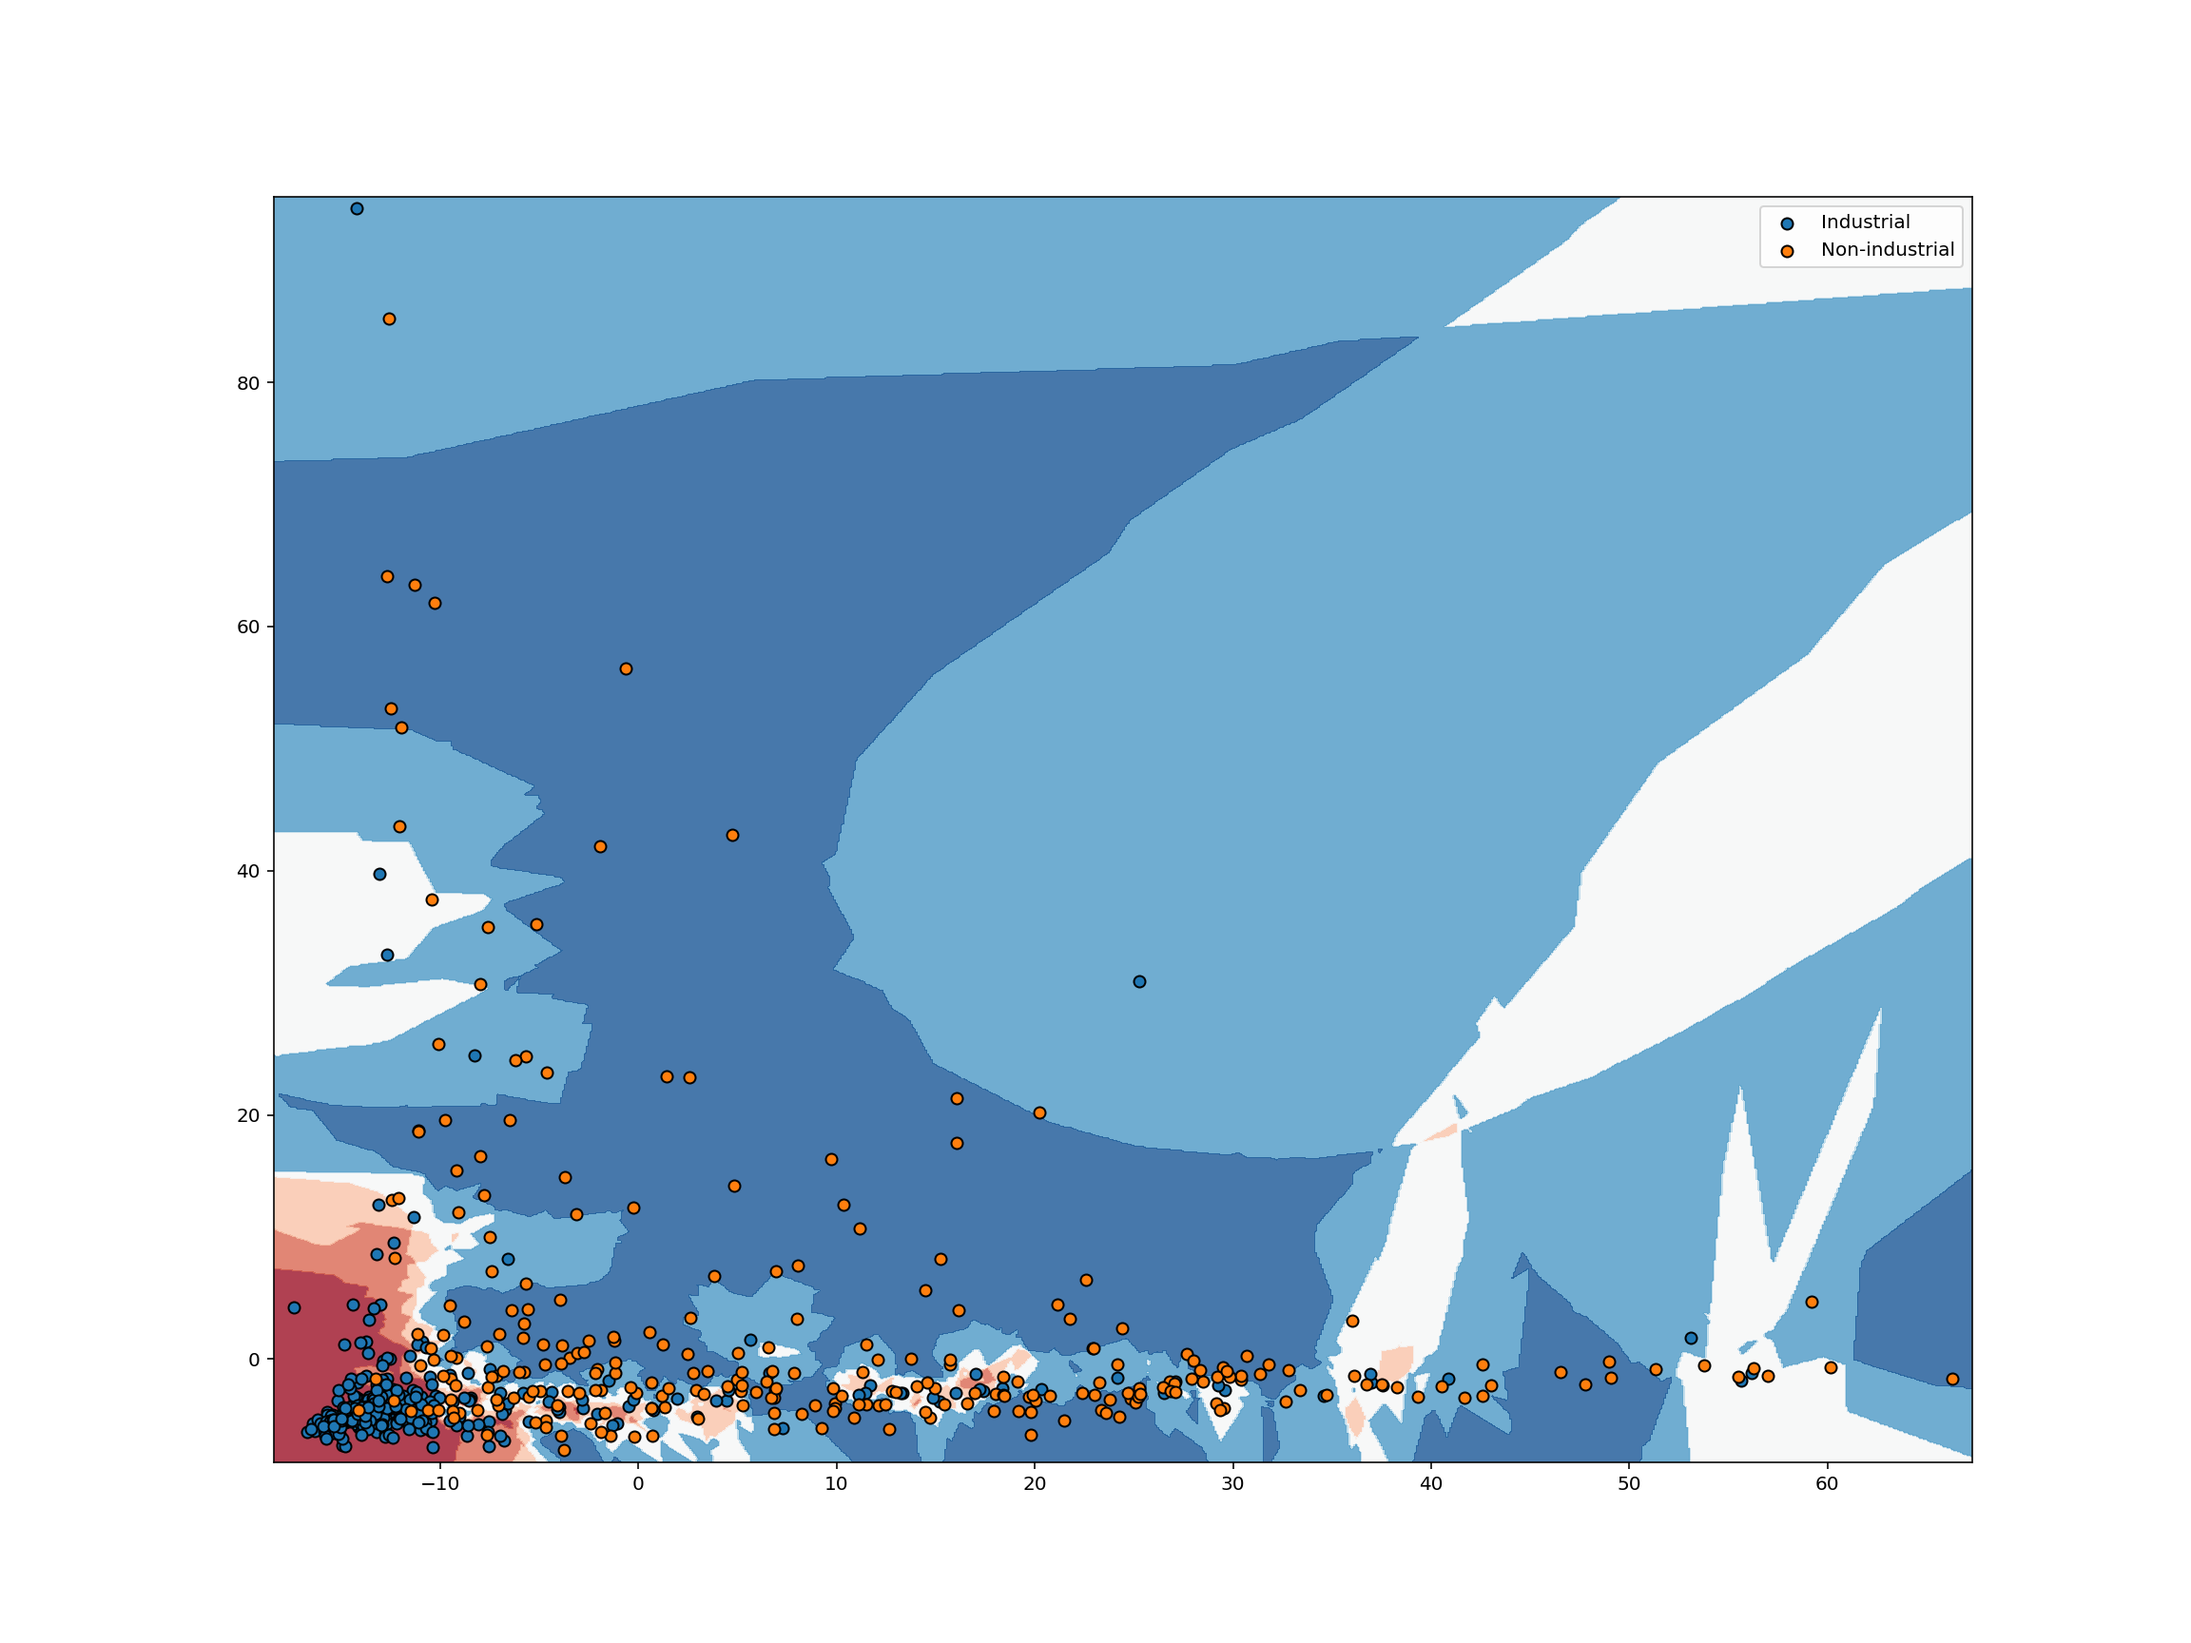
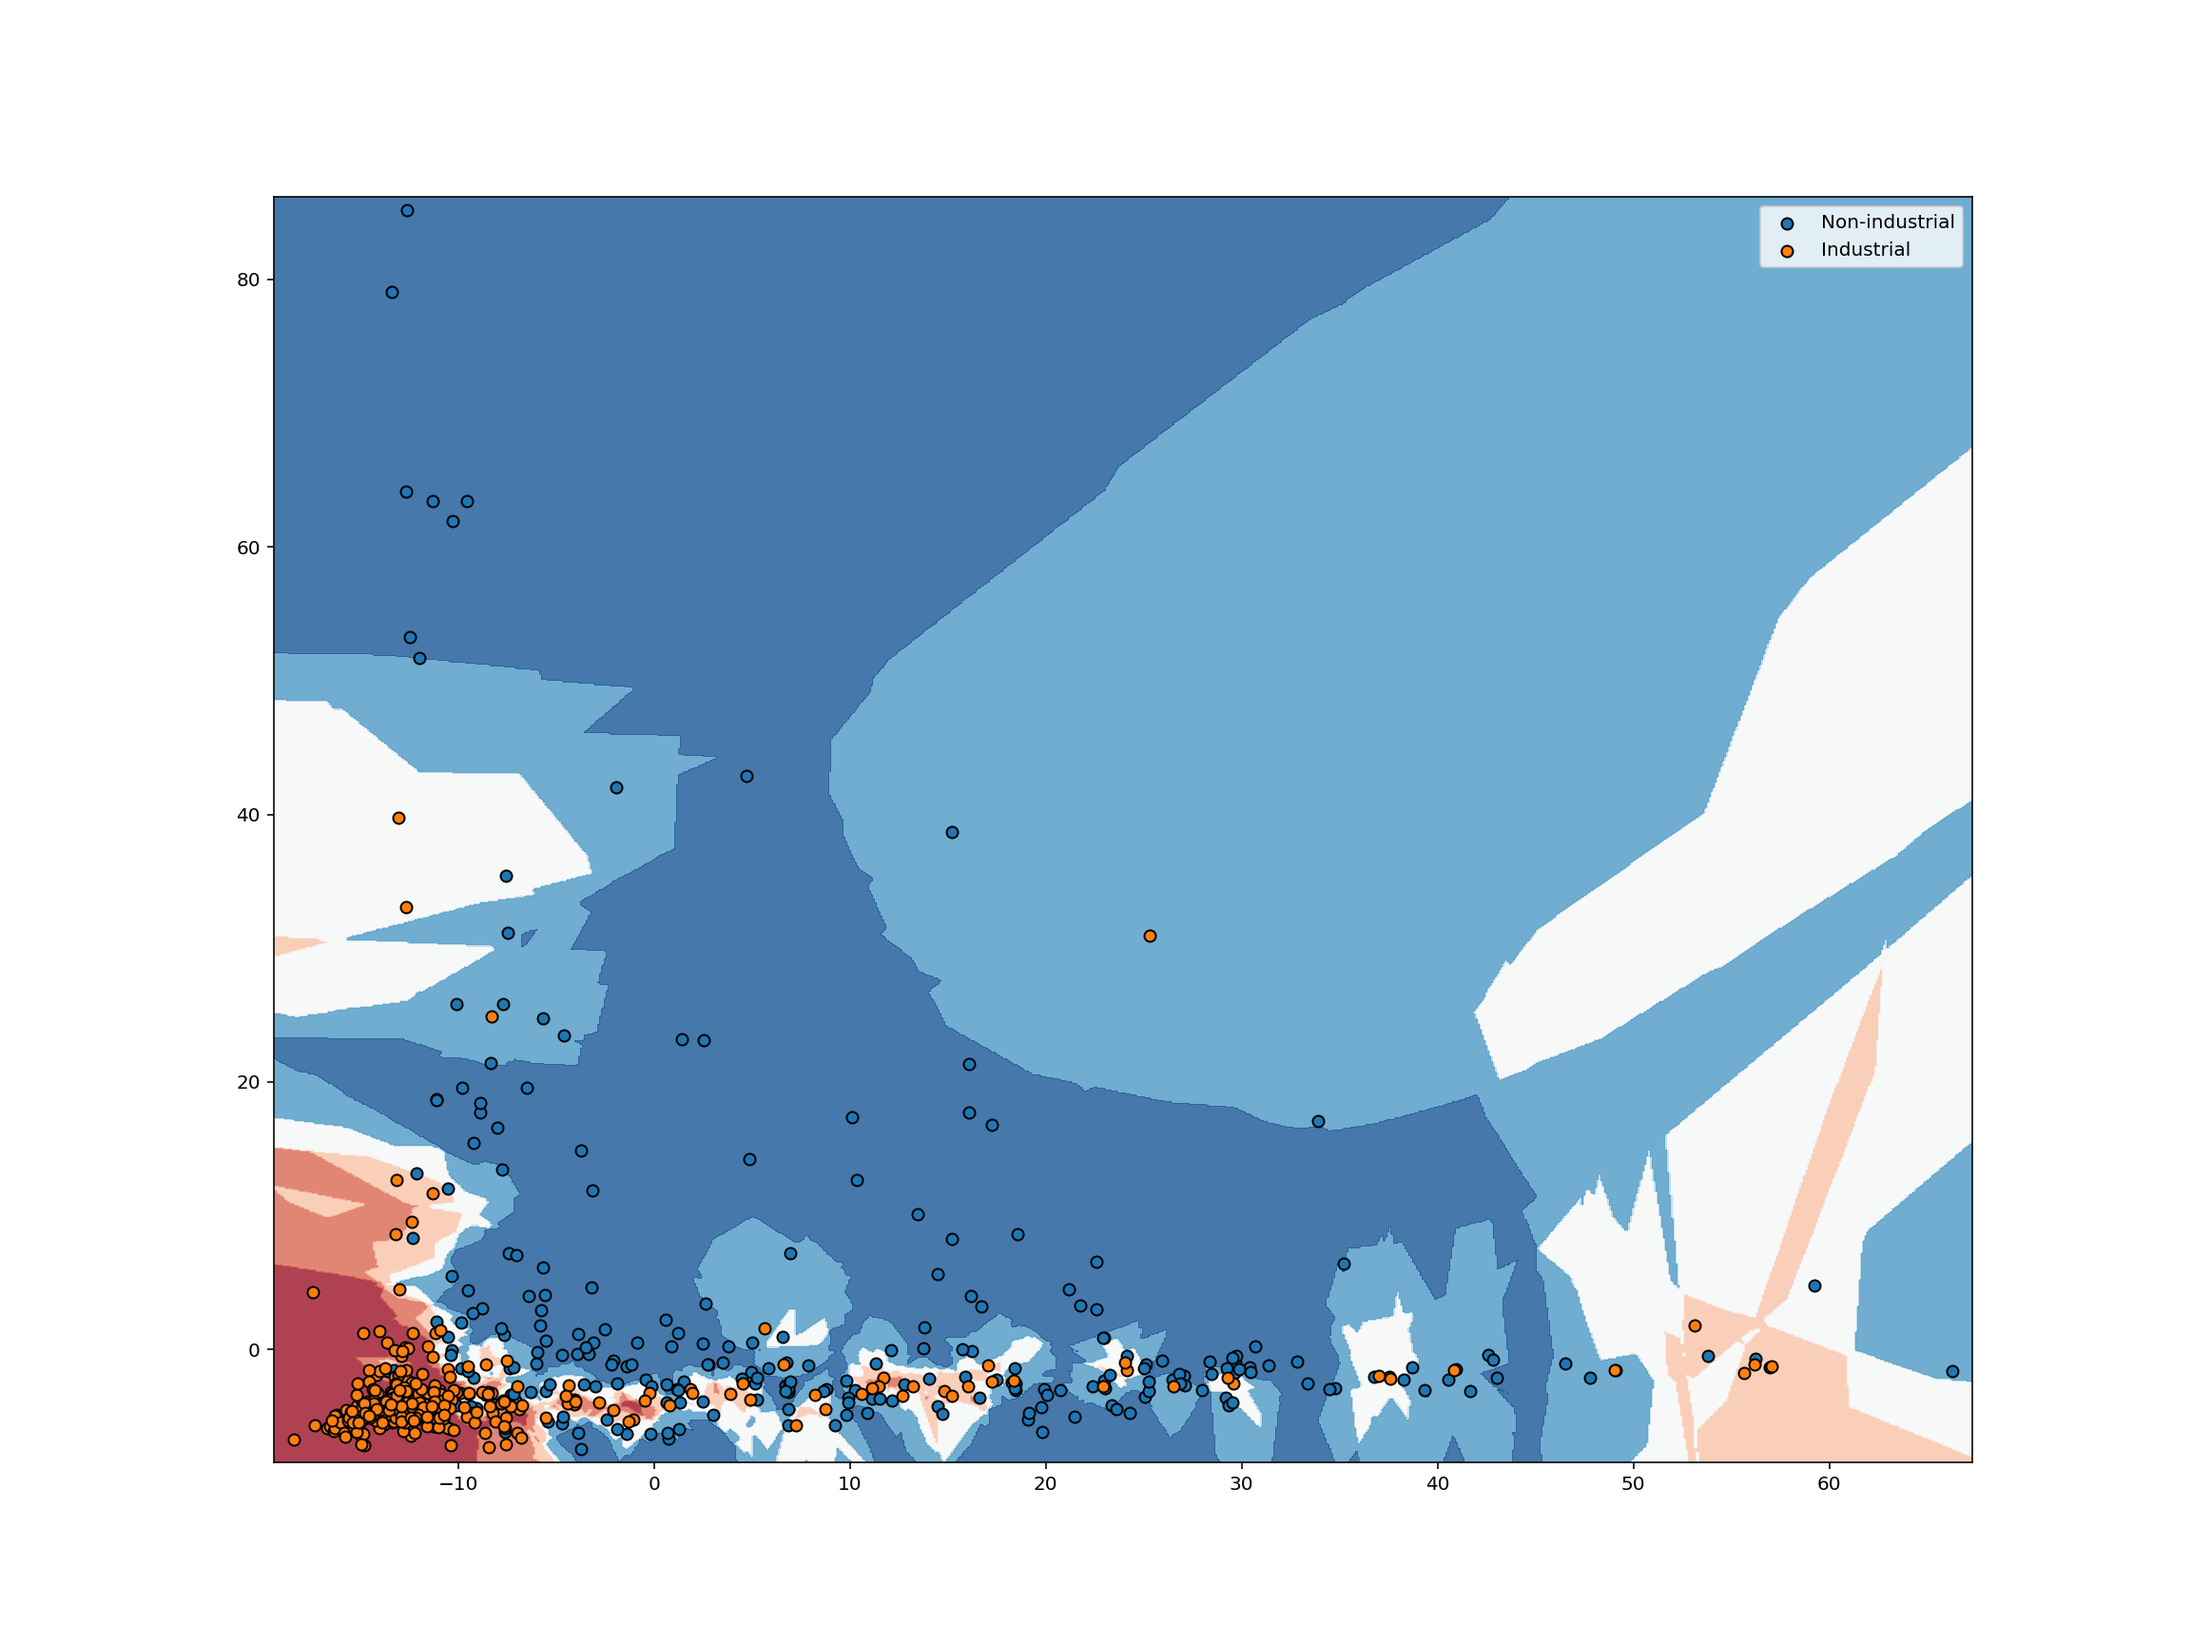
refactor: update descriptions

Changed region(s): [[0.125, 0.0938, 0.9062, 0.9062], [0.7188, 0.2812, 0.9062, 0.5625]]

diff --git a/_episodes/03-machine-learning.md b/_episodes/03-machine-learning.md
@@ -2,14 +2,23 @@
 # Please do not edit this file directly; it is auto generated.
 # Instead, please edit 03-machine-learning.md in _episodes_rmd/
 title: "Machine Learning"
-teaching: 35
-exercises: 0
+teaching: 70
+exercises: 20
 questions:
-  - "What is this magic?"
+  - "What is this machine learning?"
+  - "What kind of tasks can I apply machine learning to?"
+  - "How do I perform machine learning with scikit-learn?"
+  - "How do I interpret my results?"
 objectives:
+  - "Get a rough overview on machine learning."
+  - "Clean up a real world data set."
   - "Get an introduction scikit-learn."
+  - "Apply dimensionality reduction, clustering, classification, and anomaly detection."
+  - "Visualize results in diverse ways."
 keypoints:
-  - "Classification."
+  - "Preparing data in the right format is often the hardest task."
+  - "Machine learning provides methods for tasks such as dimensionality reduction, clustering, classification, and anomaly detection."
+  - "Having good visualizations is very important."
 ---
 
 
@@ -189,11 +198,11 @@ observations.head(10)
 > > 
 > > 
 > > ~~~
-> > 0            label  sample
-> > count          800     800
-> > unique           4     800
-> > top     Industrial  MH0397
-> > freq           418       1
+> > 0            label     sample
+> > count          800        800
+> > unique           4        800
+> > top     Industrial  SRS476184
+> > freq           418          1
 > > ~~~
 > > {: .output}
 > > 
@@ -510,7 +519,7 @@ Our relative abundances data set at the species level has a large number of vari
 
 Such "high-dimensional" data sets can be quite hard to work with and reason about, not to mention impossible to visualize. High-dimensional data also pose specific challenges to many machine learning models (see [The Curse of Dimensionality](https://en.wikipedia.org/wiki/Curse_of_dimensionality)). To work around these challenges, it's often helpful to reduce the number of dimensions required to express a given data set.
 
-One popular way to reduce the dimensionality of a data set is to use a technique called [**Principal Component Analysis**](https://en.wikipedia.org/wiki/Principal_component_analysis). PCA tries to find a lower dimensional representation of data points by projecting them down into a smaller dimensional space in a way that minimizes loss of information.
+One popular way to reduce the dimensionality of a data set is to use a technique called [Principal Component Analysis](https://en.wikipedia.org/wiki/Principal_component_analysis). PCA tries to find a lower dimensional representation of data points by projecting them down into a smaller dimensional space in a way that minimizes loss of information.
 
 To get an intuition about PCA, suppose you have points in two dimensions, and you wish to reduce the dimensionality of your data set to a single dimension. To do so, you could find the center of the points then create a line $L$ with a random orientation that passes through that center. One can then project each point onto $L$ such that an imaginary line between the point and $L$ forms a right angle. Within this "projection", each 2D point can be represented by just its position along the 1D line $L$, effectively giving us a 1D representation of the point's position in its original space. Furthermore, we can use the difference between the largest and smallest values of points projected onto $L$ as a measure of the amount of "variance" or "spread" within the data captured by $L$. The greater this spread, the greater the amount of "signal" from the original data set is represented in the projection.
 
@@ -520,7 +529,7 @@ If one were to slowly rotate $L$ and continue measuring the difference between t
 
 <figcaption>
 
-For a beginner-friendly deep dive into the mechanics behind this form of dimensionality reduction, check out Josh Starmer's [step-by-step guide to PCA](https://www.youtube.com/watch?v=FgakZw6K1QQ).
+For a beginner-friendly deep dive into the mechanics behind this form of dimensionality reduction, check out Josh Starmer's <a href="https://www.youtube.com/watch?v=FgakZw6K1QQ">step-by-step guide to PCA</a>.
 
 </figcaption>
 
@@ -535,7 +544,7 @@ and projects those distances to a Cartesian coordinate system with typically two
 distance matrix that contains the pairwise distance between every sample.
 
 In microbiome analyses, a common metric to compare samples is the [Bray-Curtis dissimilarity](https://en.wikipedia.org/wiki/Bray%E2%80%93Curtis_dissimilarity). It is a $\beta$-diversity measure since we can use it to compare samples from different
-ecological niches. We use scikit-bio for a fast implementation of this measure.
+ecological niches. We use [scikit-bio](http://scikit-bio.org/) for a fast implementation of this measure.
 
 
 ~~~
@@ -899,7 +908,7 @@ np.unique(train_label, return_counts=True)
 
 
 ~~~
-(array(['Industrial', 'Non-industrial'], dtype=object), array([319, 272]))
+(array(['Industrial', 'Non-industrial'], dtype=object), array([327, 264]))
 ~~~
 {: .output}
 
@@ -912,7 +921,7 @@ np.unique(test_label, return_counts=True)
 
 
 ~~~
-(array(['Industrial', 'Non-industrial'], dtype=object), array([99, 99]))
+(array(['Industrial', 'Non-industrial'], dtype=object), array([ 91, 107]))
 ~~~
 {: .output}
 
@@ -972,7 +981,7 @@ interact(run_knn, num=widgets.IntSlider(min=1, max=9, step=2, value=3))
 
 For each observation we pass as input to `knn_clf.predict()`, the function returns a label (either 0 or 1). Just like that, we've trained a machine learning classifier and classified some test data!
 
-The classification example above shows how we can classify just a single point in space, but suppose we want to analyze the way a classifier would classify each possible point in some space. To do so, we can transform our space into a grid of units, then classify each point in that grid. Analyzing a space in this way is known as identifying a classifier's [**decision boundary**](https://en.wikipedia.org/wiki/Decision_boundary), because this analysis shows one the boundaries between different classification outcomes in the space. This kind of analysis is very helpful in training machine learning models, because studying a classifier's decision boundary can help one see how to improve the classifier.
+The classification example above shows how we can classify just a single point in space, but suppose we want to analyze the way a classifier would classify each possible point in some space. To do so, we can transform our space into a grid of units, then classify each point in that grid. Analyzing a space in this way is known as identifying a classifier's [decision boundary](https://en.wikipedia.org/wiki/Decision_boundary), because this analysis shows one the boundaries between different classification outcomes in the space. This kind of analysis is very helpful in training machine learning models, because studying a classifier's decision boundary can help one see how to improve the classifier.
 
 Let's take a look at the decision boundary of our classifier:
 
